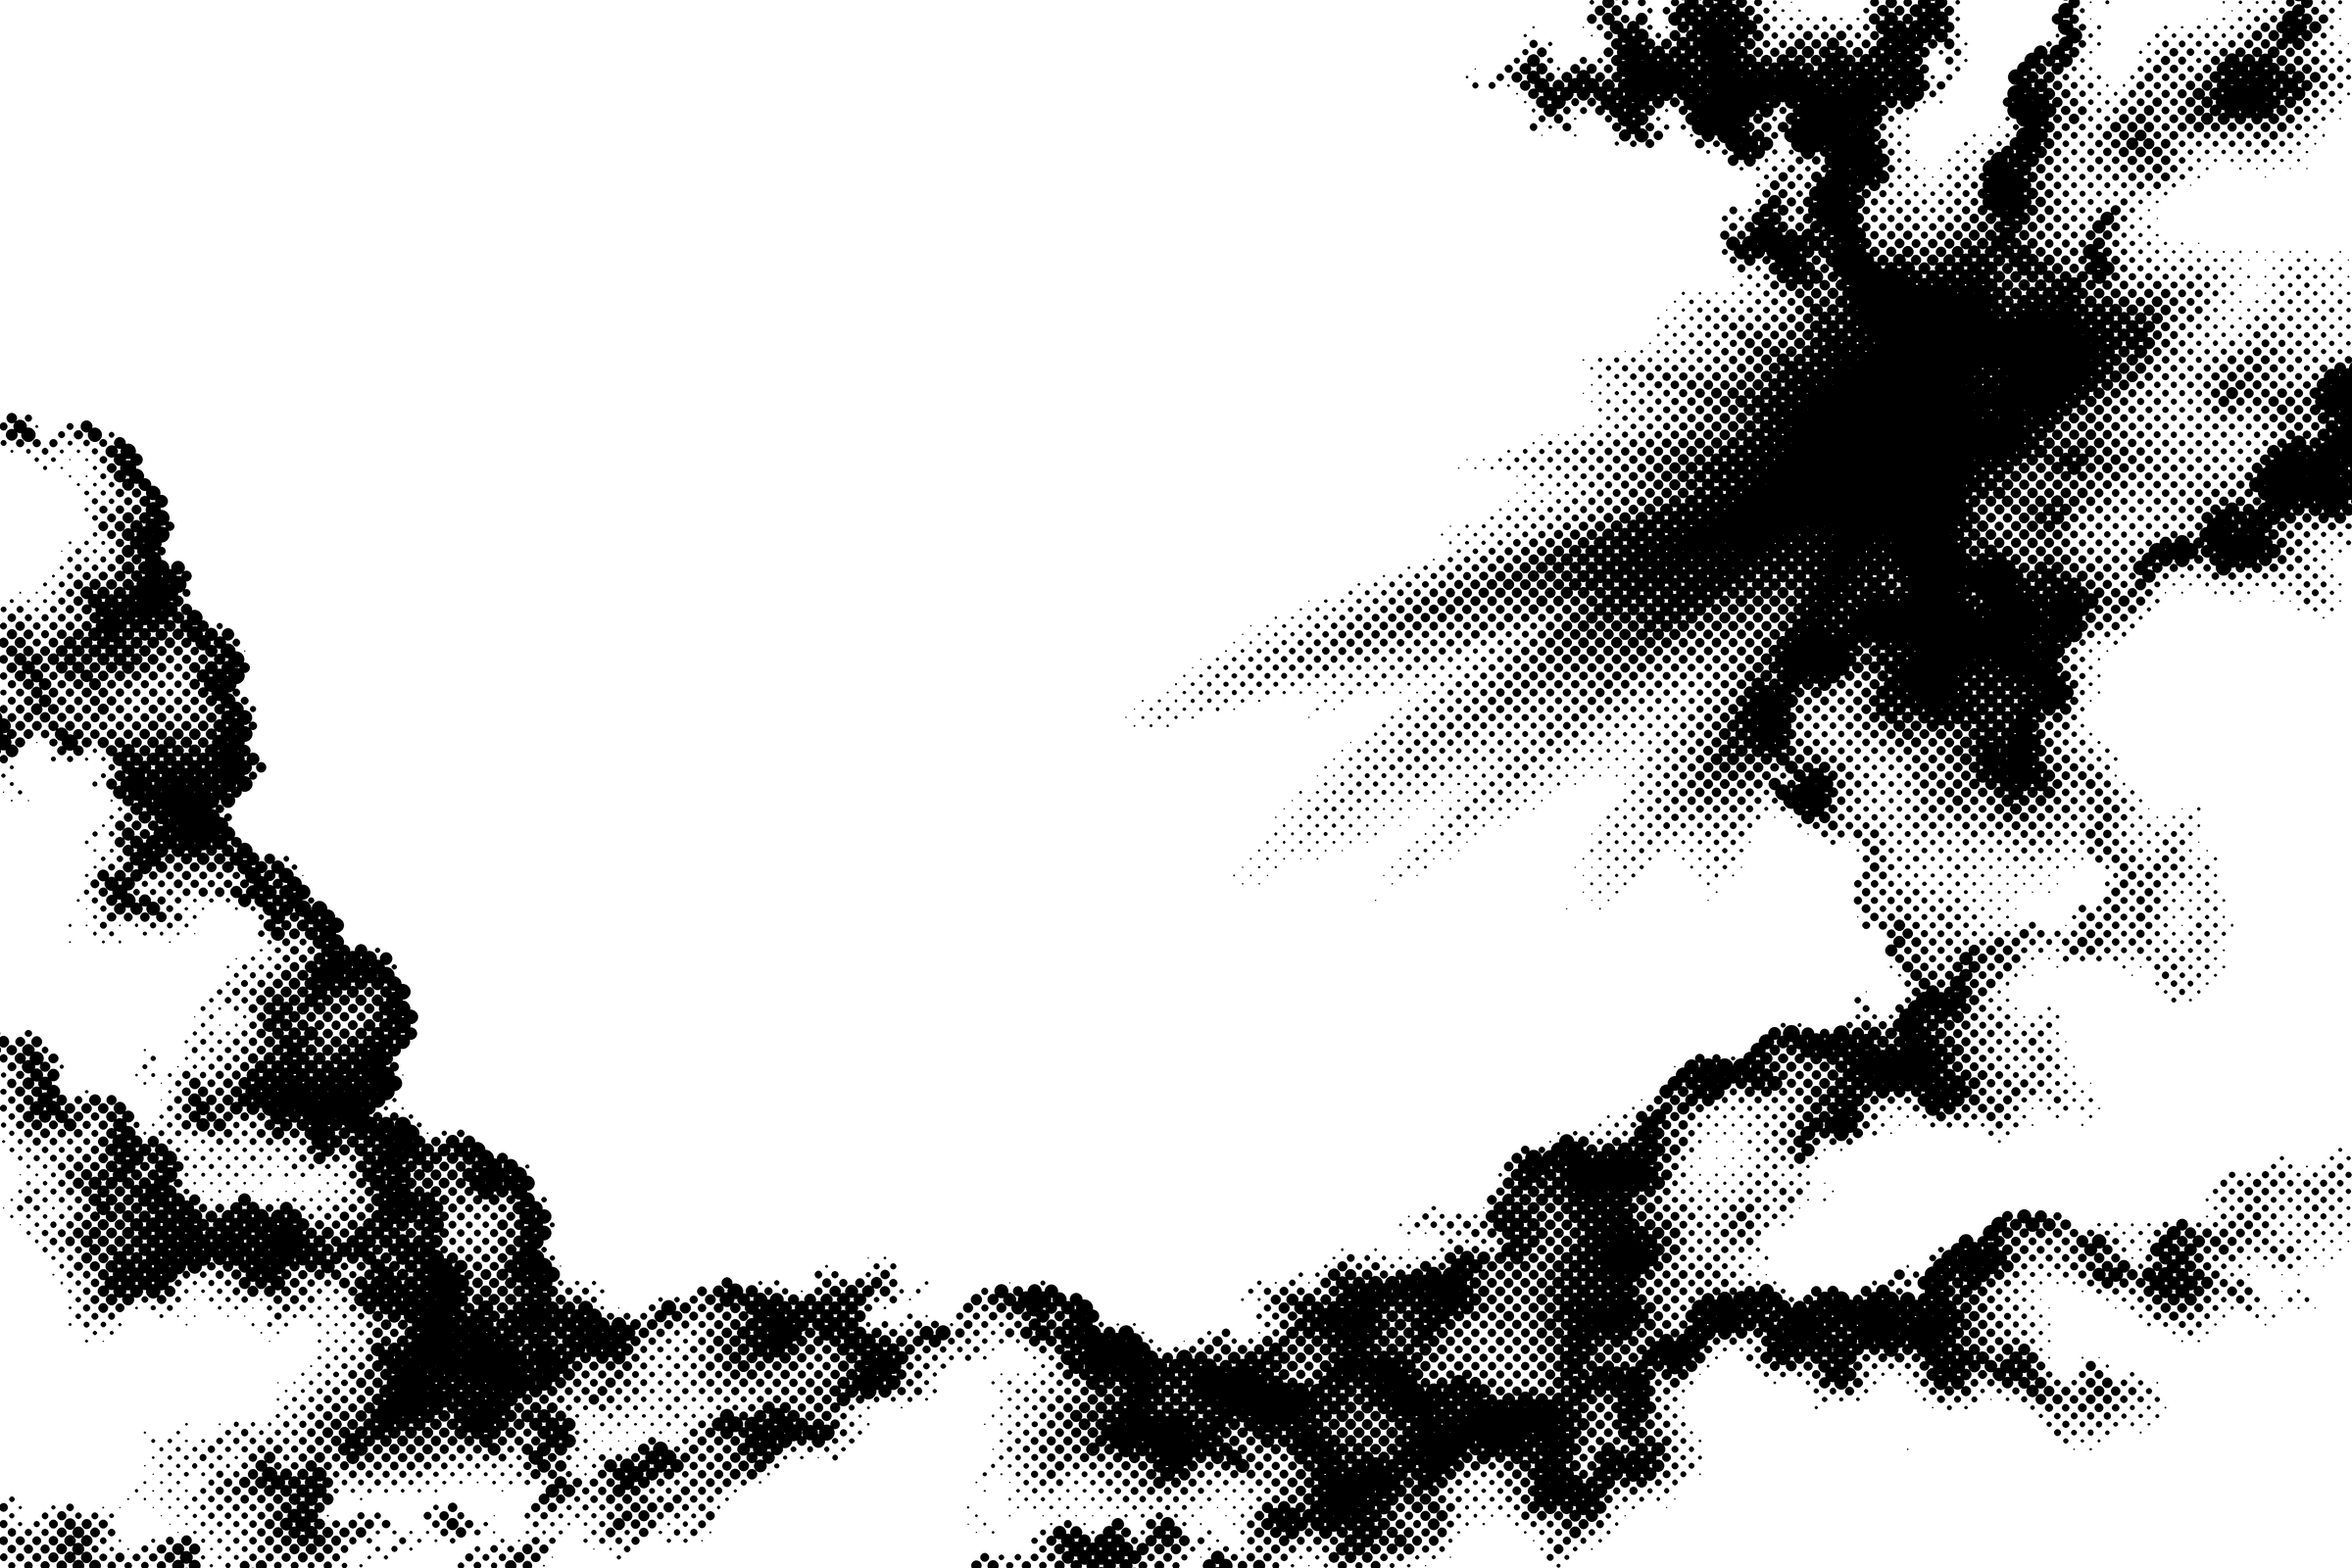
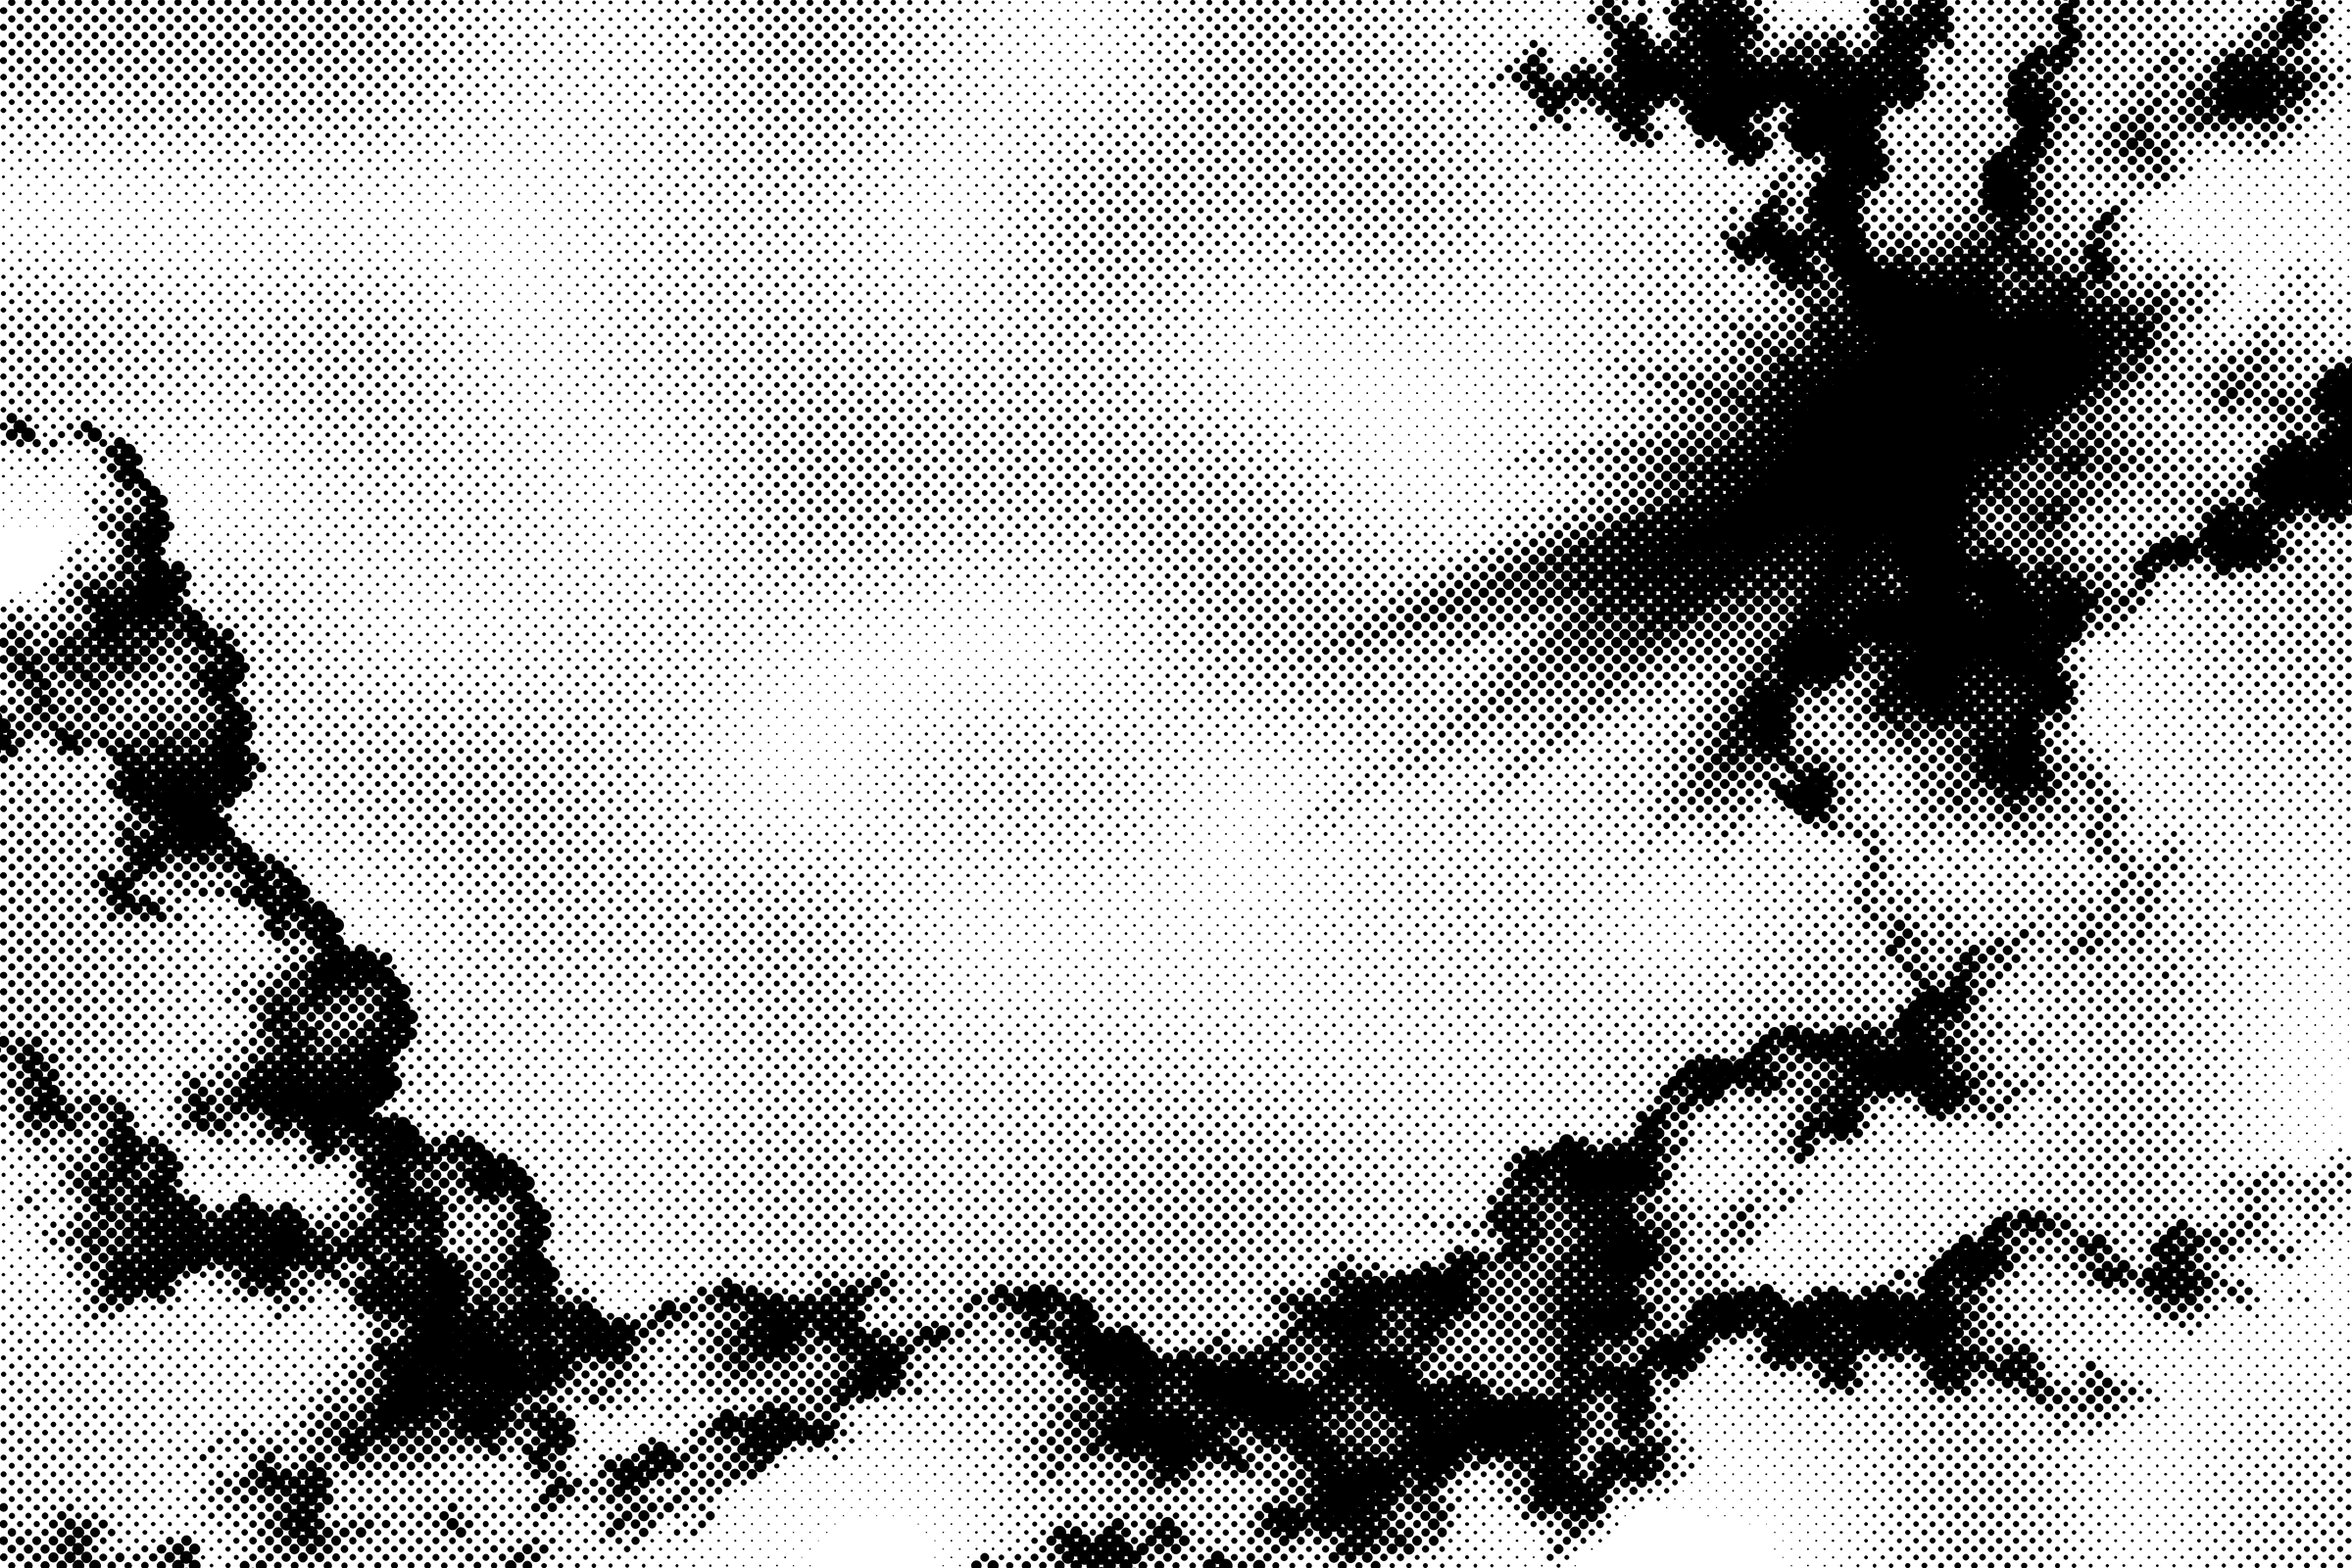
Hero monocromática: nome na manchete e céu impresso inteiro

diff --git a/src/components/hero/hero.module.css b/src/components/hero/hero.module.css
@@ -58,13 +58,13 @@
 
 /* ---------- céu ---------- */
 
-/* ocupa barra, manchete e o vão; o rodapé fica no papel liso */
+/* cobre a hero inteira; a base se desfaz atrás do rodapé */
 .sky {
-  grid-row: 1 / 4;
+  grid-row: 1 / -1;
   grid-column: 1;
   position: relative;
   z-index: -1;
-  margin: calc(var(--pad) * -1) calc(var(--pad) * -1) 0;
+  margin: calc(var(--pad) * -1);
   pointer-events: none;
   animation: fade 1400ms var(--ease) both;
 }
@@ -75,29 +75,26 @@
   inset: 0;
   background-color: var(--ink);
   mask-repeat: no-repeat;
-  mask-size: cover, 100% 100%;
-  mask-position:
-    var(--sky-x) var(--sky-y),
-    0 0;
-  mask-composite: intersect;
+  mask-size: cover;
+  mask-position: var(--sky-x) var(--sky-y);
   transform-origin: var(--sky-x) var(--sky-y);
 }
 
-/* a base do céu se desfaz antes do rodapé */
+/* o céu inteiro é impresso: nuvens, luz e o ar entre elas em pontos miúdos */
 .clouds {
-  mask-image: url("/images/hero/sky.webp"), linear-gradient(#000 82%, transparent);
+  mask-image: url("/images/hero/sky.webp");
 }
 
 .light {
-  mask-image: url("/images/hero/rays.webp"), linear-gradient(#000 82%, transparent);
+  mask-image: url("/images/hero/rays.webp");
 }
 
 /* Ícaro voa dentro dos raios, abaixo da manchete; a silhueta em --paper
    tapa as nuvens atrás dele */
 .icarus {
   position: absolute;
-  left: 40%;
-  top: 50%;
+  left: 46%;
+  top: 58%;
   width: clamp(140px, 19vw, 300px);
   aspect-ratio: 900 / 865;
 }
@@ -247,8 +244,8 @@
 
 /* ---------- manchete ---------- */
 
-/* cada linha tem 8 letras e ~6,8em de largura em Archivo larga e preta,
-   então a fonte é a largura disponível dividida por isso */
+/* WARNEY, a linha mais larga, mede ~5,7em em Archivo larga e preta; a fonte
+   é a largura disponível dividida por 6,1, com folga para não vazar */
 .masthead {
   container-type: inline-size;
   margin-top: clamp(20px, 4vh, 56px);
@@ -257,7 +254,7 @@
 .title {
   margin: 0;
   font-family: var(--font-display), sans-serif;
-  font-size: calc(100cqi / 6.9);
+  font-size: calc(100cqi / 6.1);
   font-weight: 900;
   font-variation-settings: "wdth" 125;
   line-height: 0.84;

diff --git a/src/components/hero/Hero.tsx b/src/components/hero/Hero.tsx
@@ -35,7 +35,6 @@ export default function Hero() {
 
       <div className={s.masthead}>
         <h1 className={s.title}>
-          <span className={s.srOnly}>{profile.shortName}, </span>
           {hero.title.map((line) => (
             <span key={line} className={s.line}>
               {line}
@@ -43,7 +42,7 @@ export default function Hero() {
           ))}
         </h1>
         <p className={s.byline}>
-          {profile.shortName} <span aria-hidden="true">/</span> {profile.headline}
+          {hero.role} <span aria-hidden="true">/</span> {profile.headline}
         </p>
       </div>
 

diff --git a/src/data/portfolio.ts b/src/data/portfolio.ts
@@ -22,7 +22,9 @@ export const nav = [
 
 export const hero = {
   /* duas linhas da manchete, empilhadas na largura toda */
-  title: ["Software", "Engineer"],
+  title: ["Warney", "Rego"],
+  /* linha em itálico embaixo da manchete */
+  role: "Software Engineer",
   resumeLabel: "Baixar currículo",
 };
 
